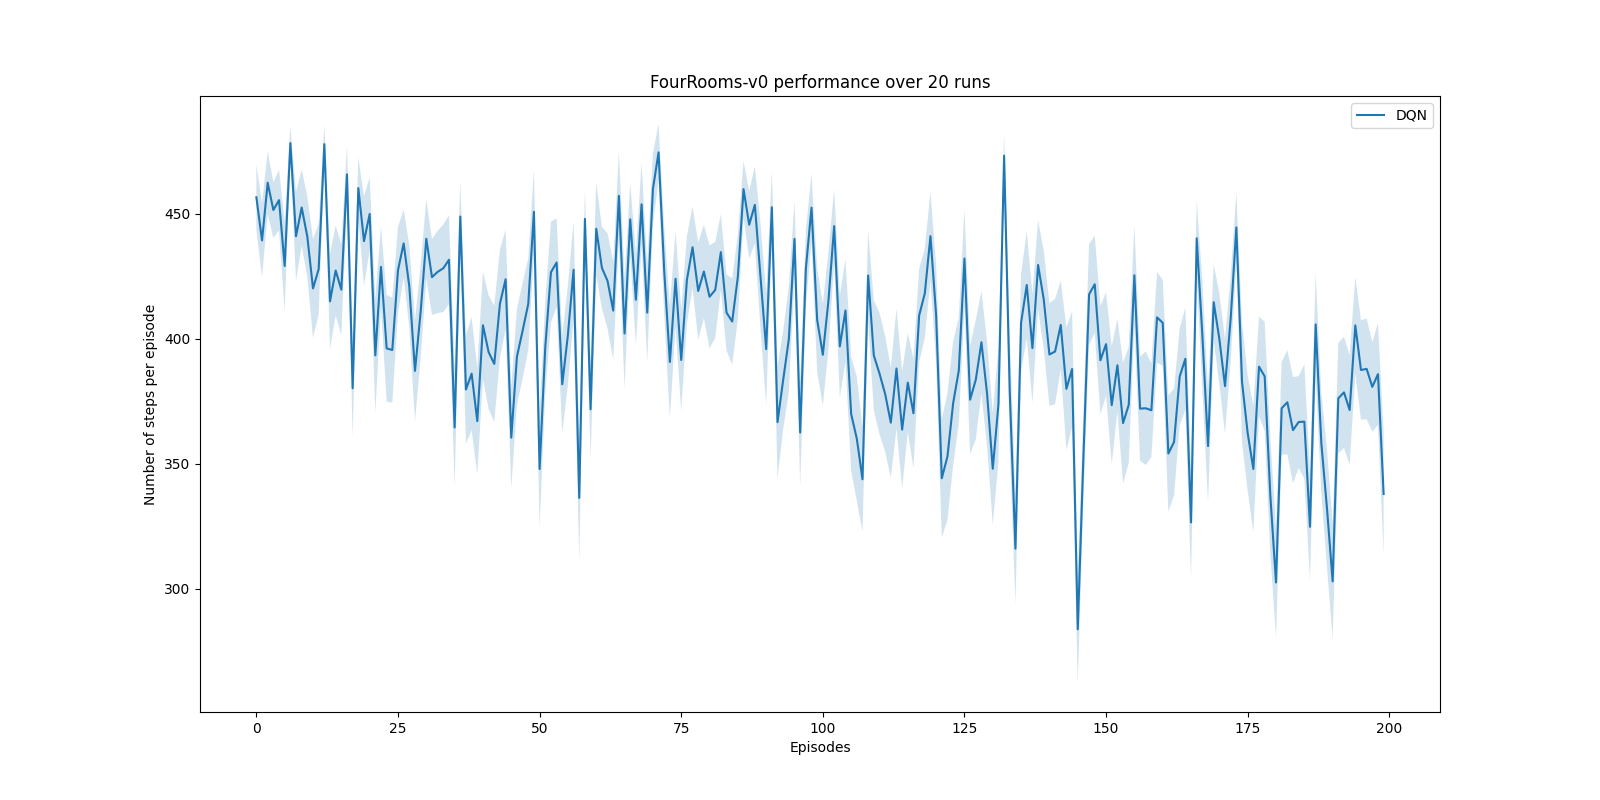
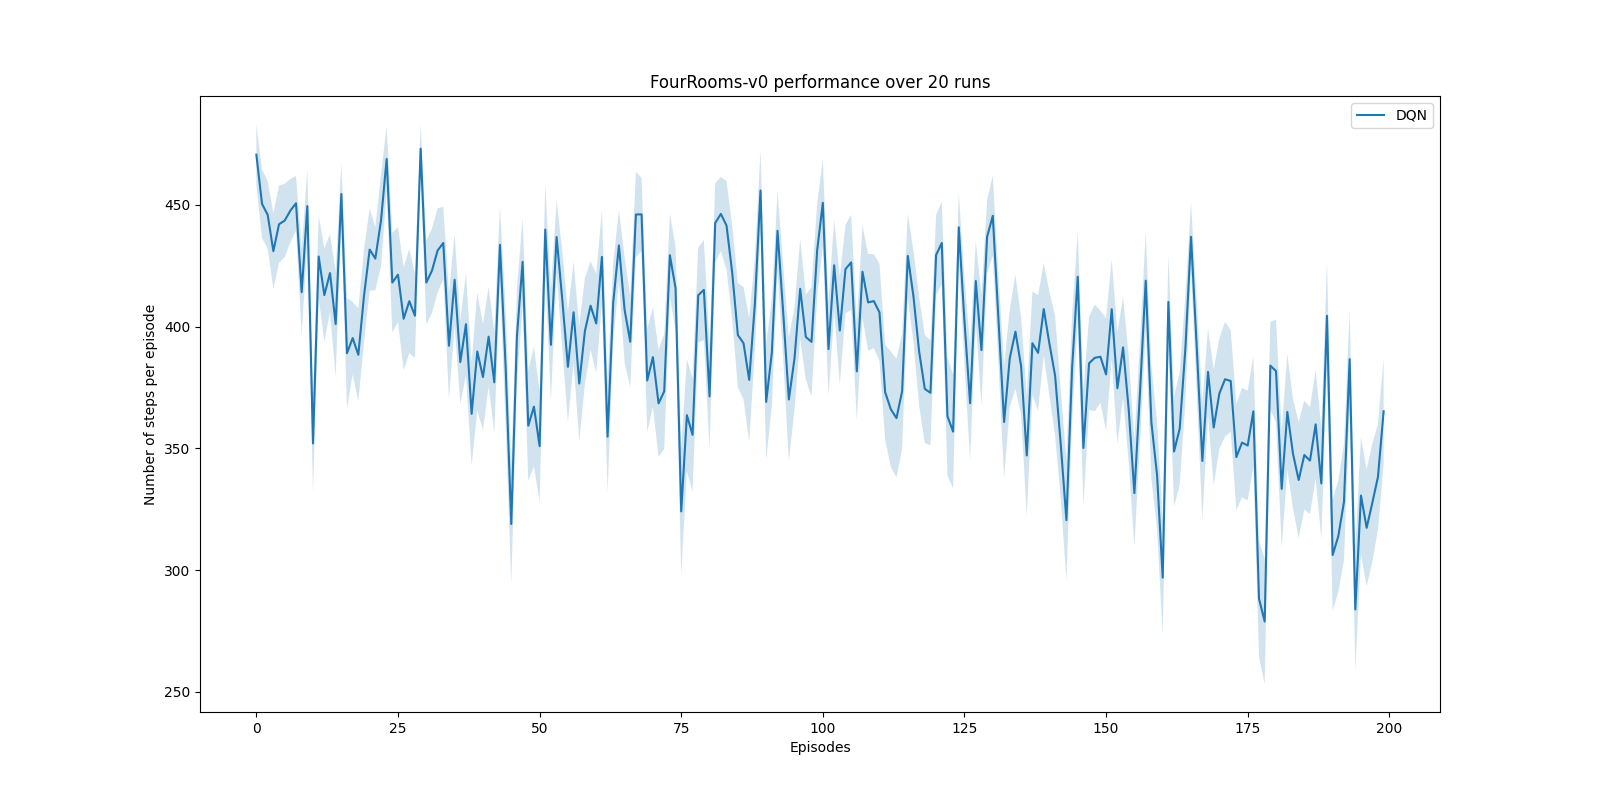
DQN seems to work now, just need to tweak to improve learning, also added pics folder

diff --git a/distributional.py b/distributional.py
@@ -97,31 +97,32 @@ class CategoricalDQN(nn.Module):
         self.Vmin = Vmin
         self.Vmax = Vmax
 
-        # self.flatten = nn.Flatten()
-        # self.linear1 = nn.Linear(num_inputs, 128)
-        # self.linear2 = nn.Linear(128, 128)
-        # self.noisy1 = NoisyLinear(128, 512)
-        # self.noisy2 = NoisyLinear(512, self.num_actions * self.num_atoms)
-        self.layers = nn.Sequential(
-            # TODO change here to switch between env
-            nn.Flatten(),
-            nn.Linear(num_inputs, 128),
-            # nn.Linear(env.observation_space.shape[0], 128),
-            nn.ReLU(),
-            nn.Linear(128, 128),
-            nn.ReLU(),
-            NoisyLinear(128, 512),
-            nn.ReLU(),
-            NoisyLinear(512, self.num_actions * self.num_atoms),
-            # F.softmax()
-        )
+        self.flatten = nn.Flatten()
+        self.linear1 = nn.Linear(num_inputs, 128)
+        self.linear2 = nn.Linear(128, 128)
+        self.noisy1 = NoisyLinear(128, 512)
+        self.noisy2 = NoisyLinear(512, self.num_actions * self.num_atoms)
+        # self.layers = nn.Sequential(
+        #     # TODO change here to switch between env
+        #     nn.Flatten(),
+        #     nn.Linear(num_inputs, 128),
+        #     # nn.Linear(env.observation_space.shape[0], 128),
+        #     nn.ReLU(),
+        #     nn.Linear(128, 128),
+        #     nn.ReLU(),
+        #     NoisyLinear(128, 512),
+        #     nn.ReLU(),
+        #     NoisyLinear(512, self.num_actions * self.num_atoms),
+        #     # F.softmax()
+        # )
 
     def forward(self, x):
-        # x = x.flatten()
-        # x = F.relu(self.linear1(x))
-        # x = F.relu(self.linear2(x))
-        # x = F.relu(self.noisy1(x))
-        # x = self.noisy2(x)
+        # print(x.flatten().shape)
+        x = x.flatten()
+        x = F.relu(self.linear1(x))
+        x = F.relu(self.linear2(x))
+        x = F.relu(self.noisy1(x))
+        x = self.noisy2(x)
         x = F.softmax(x.view(-1, self.num_atoms), dim=-1).view(-1, self.num_actions, self.num_atoms)
 
         return x
@@ -190,7 +191,6 @@ def compute_td_loss(batch_size):
     done = torch.FloatTensor(np.float32(done))
 
     proj_dist = projection_distribution(next_state, reward, done)
-
     dist = current_model(state)
     action = action.unsqueeze(1).unsqueeze(1).expand(batch_size, 1, num_atoms)
     dist = dist.gather(1, action).squeeze(1)
@@ -220,7 +220,7 @@ def plot(frame_idx, rewards, losses):
 
 
 num_frames = 5000
-batch_size = 32
+batch_size = 1
 gamma = 0.99
 # EPISODES = 200
 
@@ -252,7 +252,7 @@ def train(current_model, target_model):
 
             if done:
                 # state = env.reset()
-                all_rewards[i] = episode_reward
+                all_rewards.append(episode_reward)
                 output.append(num_steps)
                 break
 

diff --git a/test.py b/test.py
@@ -174,7 +174,7 @@ epsilon_by_frame = lambda frame_idx: epsilon_final + (epsilon_start - epsilon_fi
 """ENV SET UP (end)"""
 
 steps = 10000
-batch_size = 32
+batch_size = 16
 gamma = 0.99
 
 if __name__ == '__main__':
@@ -229,35 +229,35 @@ if __name__ == '__main__':
 
     plt.show()
 
-    env_id = "CartPole-v0"
-    env = gym.make(env_id)
-
-    data = np.zeros((TRIALS, EPISODES))
-    step = np.zeros((TRIALS, EPISODES))
-    for t in range(TRIALS):
-        # TODO change here to switch between env
-        # shape = env.render().flatten().shape
-
-        # model = DQN(shape[0], env.action_space.n)
-        model = DQN(env.observation_space.shape[0], env.action_space.n)
-        optimizer = optim.Adam(model.parameters())
-        replay_buffer = ReplayBuffer(1000)
-        rewards, _, output = train(model)
-        data[t] = output
-
-    plt.figure(figsize=(16, 8))
-    avg = data.mean(axis=0)
-    std = data.std(axis=0)
-    length = len(avg)
-    y_err = 1.96 * std * np.sqrt(1 / length)
-    plt.fill_between(np.linspace(0, length - 1, length), avg - y_err, avg + y_err, alpha=0.2)
-
-    plt.plot(avg, label='DQN')
-    plt.xlabel("Episodes")
-    plt.ylabel("Number of steps per episode")
-    plt.legend()  # loc=3, fontsize='small')
-    plt.title(f'{env_id} performance over {TRIALS} runs')
-    plt.savefig(f'Pics/{env_id} performance over {TRIALS} runs.png')
-
-    plt.show()
+    # env_id = "CartPole-v0"
+    # env = gym.make(env_id)
+    #
+    # data = np.zeros((TRIALS, EPISODES))
+    # step = np.zeros((TRIALS, EPISODES))
+    # for t in range(TRIALS):
+    #     # TODO change here to switch between env
+    #     # shape = env.render().flatten().shape
+    #
+    #     # model = DQN(shape[0], env.action_space.n)
+    #     model = DQN(env.observation_space.shape[0], env.action_space.n)
+    #     optimizer = optim.Adam(model.parameters())
+    #     replay_buffer = ReplayBuffer(1000)
+    #     rewards, _, output = train(model)
+    #     data[t] = output
+    #
+    # plt.figure(figsize=(16, 8))
+    # avg = data.mean(axis=0)
+    # std = data.std(axis=0)
+    # length = len(avg)
+    # y_err = 1.96 * std * np.sqrt(1 / length)
+    # plt.fill_between(np.linspace(0, length - 1, length), avg - y_err, avg + y_err, alpha=0.2)
+    #
+    # plt.plot(avg, label='DQN')
+    # plt.xlabel("Episodes")
+    # plt.ylabel("Number of steps per episode")
+    # plt.legend()  # loc=3, fontsize='small')
+    # plt.title(f'{env_id} performance over {TRIALS} runs')
+    # plt.savefig(f'Pics/{env_id} performance over {TRIALS} runs.png')
+    #
+    # plt.show()
 
